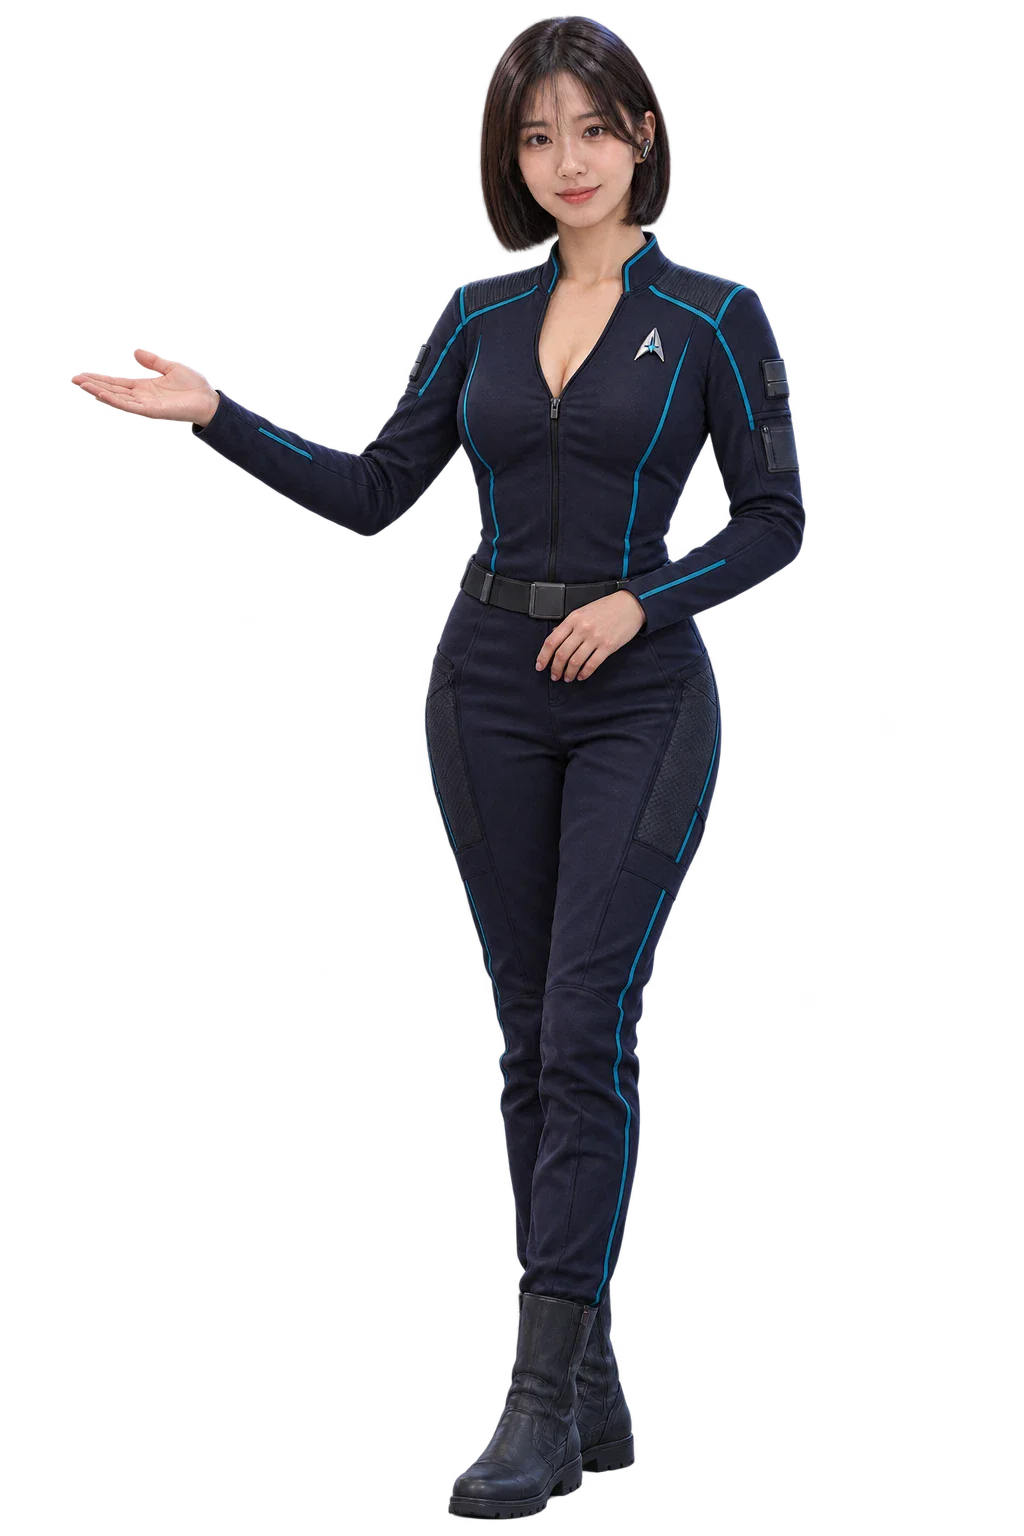
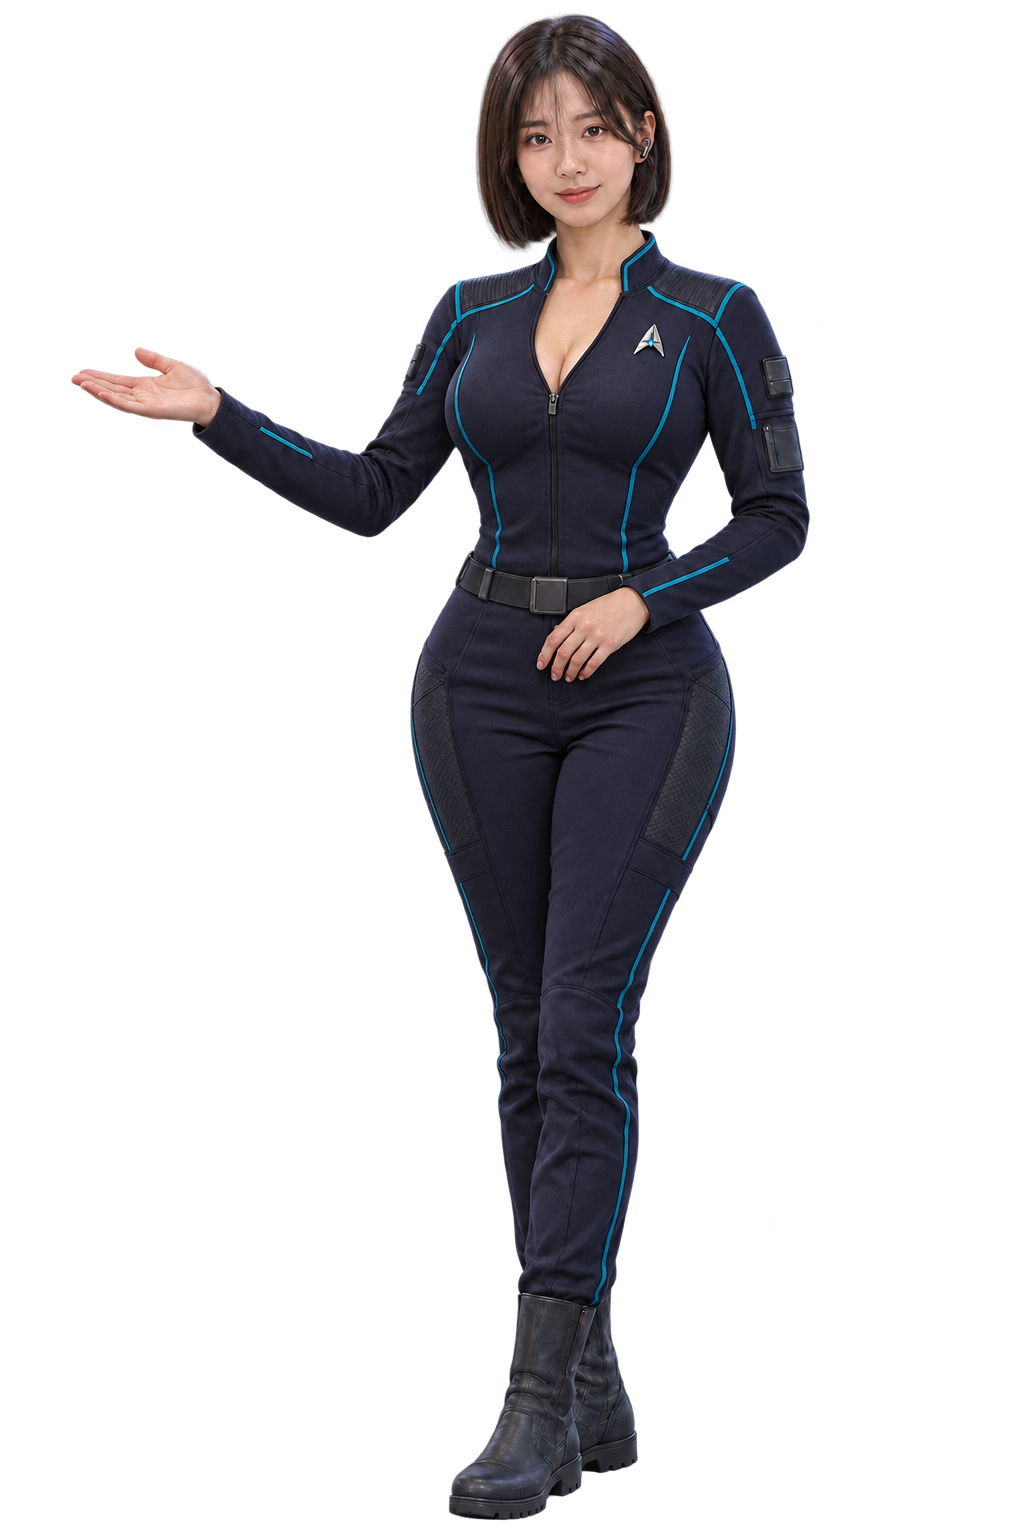
Publish the selected bridge operator artwork

diff --git a/briefing.css b/briefing.css
@@ -27,3 +27,4 @@
 .aide-overlay .aide-actions{position:static;flex:0 0 auto;max-height:32%;overflow-y:auto;margin-top:16px;bottom:auto;padding-top:18px}
 @media(max-width:560px){.aide-overlay .aide-card{height:calc(100dvh - 24px)}.aide-overlay .aide-top{min-height:62px;margin-bottom:16px;padding-right:18px}.aide-overlay .aide-actions{gap:8px;padding-top:12px;margin-top:12px}}
 .aide-overlay{animation:none}
+.aide-overlay .partner-photo[src*="assets/partners/aide.png"],.aide-overlay .aide-intro-portrait img[src*="assets/partners/aide.png"],.map-partner img[src*="assets/partners/aide.png"],.aide-call img[src*="assets/partners/aide.png"],.aide-fab img[src*="assets/partners/aide.png"]{object-position:center top}

diff --git a/PROJECT_STATUS.md b/PROJECT_STATUS.md
@@ -1,3 +1,10 @@
+## 2026-11-06 — 승인된 브리지 오퍼레이터 이미지 공개 반영
+
+- 작업자 Codex, `feature/publish-selected-bridge-operator`. 사용자가 오퍼레이터 교체를 공개 사이트에 반영하라고 재확인했다. 선택한 흑발·남색 제복 원본을 `assets/partners/aide.png`와 `assets/guide/aide-present.webp`에 적용하고 웹 v3.14.1로 공개한다. 이번에는 브랜치 보관만으로 완료하지 않고 PR/CI/병합/Pages와 실제 공개 자산까지 확인한다.
+- 범위: 오퍼레이터 초상화·안내용 전신 이미지와 출처/업데이트 기록. 말투·파트너 정책·경로·적재 계산·네이티브 앱은 변경하지 않는다. 은발 튜토리얼 캐릭터는 별도 보관용 draft PR14이며 이번 배포에 포함하지 않는다.
+- 기존 원본은 저장소 밖에 보관돼 있으며 선택 PNG의 원본 바이트와 WebP의 픽셀 일치를 검증한다. 전체 Node22 테스트와 파트너·안내의 한영/모바일 검증을 실행한다. 진행 중에는 새 공개 완료로 보고하지 않으며 최종 결과는 아래 후속 기록과 Git/Actions 이력을 따른다.
+- 로컬 검증 완료: Node22 전체178건, KO/EN×1440/390 전체55장 안내·관제 왕복·영상, 모든 파트너 준비 단계/초기화 검사 통과. 별도 오퍼레이터 선택/소개 캡처에서 머리 잘림을 발견해 `briefing.css`의 해당 이미지 위치를 상단 기준으로 보정하고 네 조건 모두 재검증했다. PNG 원본 바이트/WebP RGBA 픽셀·실제 제공 PNG SHA 일치, 공개 묶음 조립/버전 주소 생성, `git diff --check` 통과. 배포용 복사본의 로컬 버전 표시는 검증용 기준 SHA이며 실제 공개 SHA는 CI에서 생성한다.
+
 ## 2026-11-06 — v3.14.0 공개 배포·실제 사이트 검증 완료
 
 - Codex 작업 완료. PR13 https://github.com/limmin3-sudo/stam-freight-control/pull/13 병합 `3cf8aa3abb8946cd0ec0403efb395da6515eef81`. 정확한 기능 head209e781의 전체 CI42169101212 성공: Node22 178건, KO/EN×1440/390 전체55장, 준비/초기화, 94함선, 수신함·편집·원래 경로/적재·공개 탭 자동 연결·앱 재시작 회귀 전부 통과. 동일 head의 별도 PR 트리거 실행과 구분한다.

diff --git a/assets/guide/README.md b/assets/guide/README.md
@@ -5,7 +5,7 @@ These are captures of STAM's own interface, not screenshots copied from a player
 - Ordinary examples use synthetic contract ownership IDs. The 112 SCU two-destination and 452 SCU interstellar quantities reproduce mission content supplied for this guide. Their combined 564 SCU example is illustrative; container breakdowns are chosen for explanation and are not claimed as observed game containers.
 - `actual-inbox-*` and `actual-editor-*` was captured through the companion's real receiving path using the user-supplied Game.log. Only inbox cards and the incomplete contract editor are shown; runtime identifiers are replaced for publication. Missing quantities remain missing. No raw log, player identity or personal installation path is included.
 - The Game.log folder illustration is HTML in the guide, labelled as an illustration. It explains hidden extensions and is not presented as a Windows screenshot.
-- `aide-present.webp` and `navigator-present.webp` are the existing AI-assisted partner illustrations. This revision enlarges them with layout changes.
+- `aide-present.webp` is the user-selected updated AI-assisted bridge-operator illustration (2026-11-06), with matching source imagery in `assets/partners/aide.png`. The WebP is a lossless format conversion of that selected image. `navigator-present.webp` is unchanged. Amanda, the separate tutorial flight director, has not replaced either hauling partner.
 
 The private log is not part of the repository or public build. To intentionally refresh the actual receipts locally, supply `STAM_GUIDE_LOG` to the capture script; review and anonymise the resulting visible content before publishing. Normal example captures work without a private log and do not overwrite the actual-receipt images.
 
